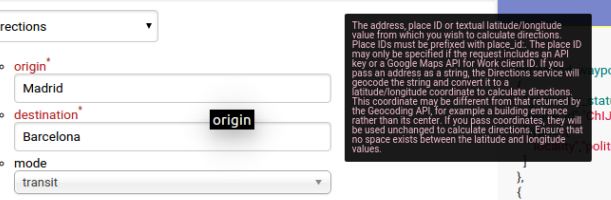
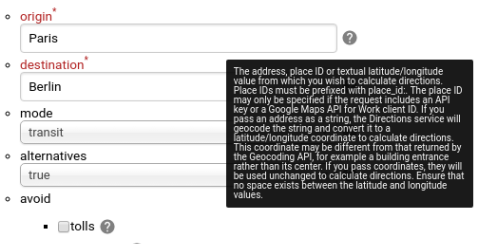
updates in readme.md

diff --git a/README.md b/README.md
@@ -65,7 +65,7 @@ Output formats may be _JSON_ or _XML_. Please do not forget to set corresponding
  
 ### List of parameters 
  
- Once selected the web service for the request instance you will see a list of available parameters. You can play with parameters and see how they affect the response of corresponding web service. Each parameter has a short description. You can see the description of parameter when you hover it.
+ Once selected the web service for the request instance you will see a list of available parameters. You can play with parameters and see how they affect the response of corresponding web service. Each parameter has a short description. You can see the description of parameter when you hover the question mark icon.
  
  ![Parameters Tooltips](/image/docs/geo-ws-params-tooltips.png?raw=true "Maps WS Builder Parameters and Tooltips")
  
